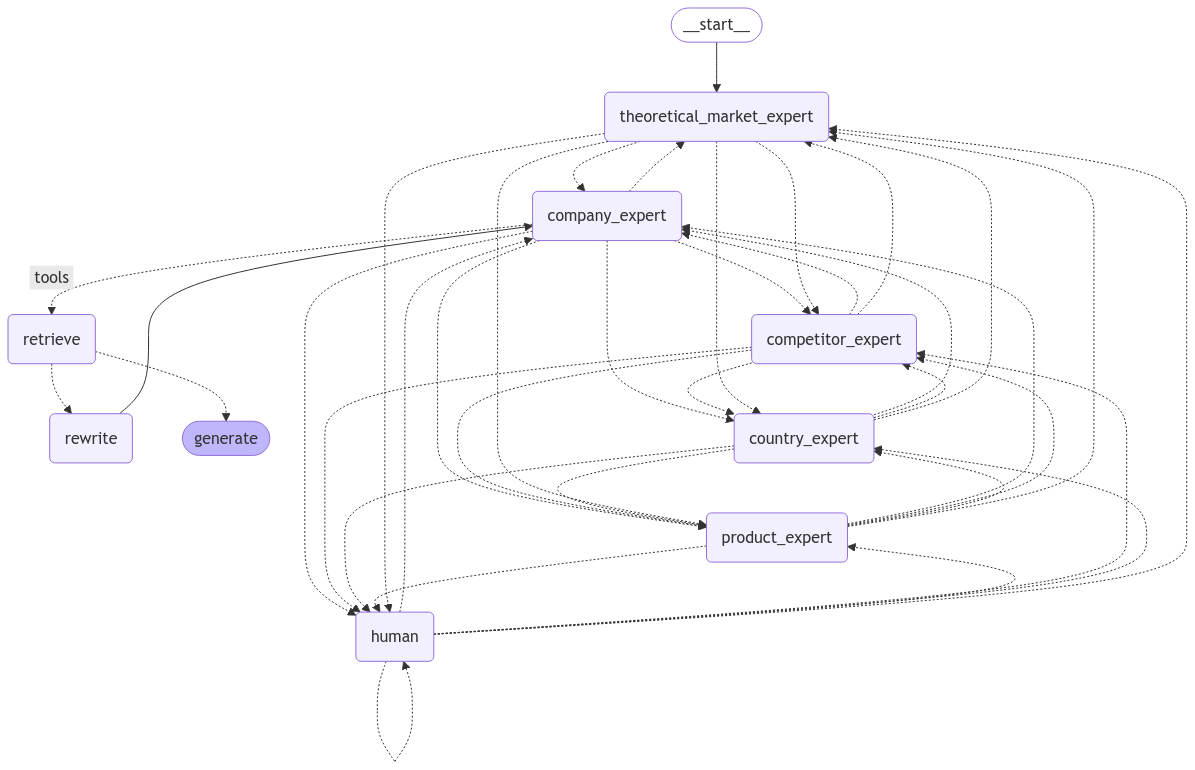
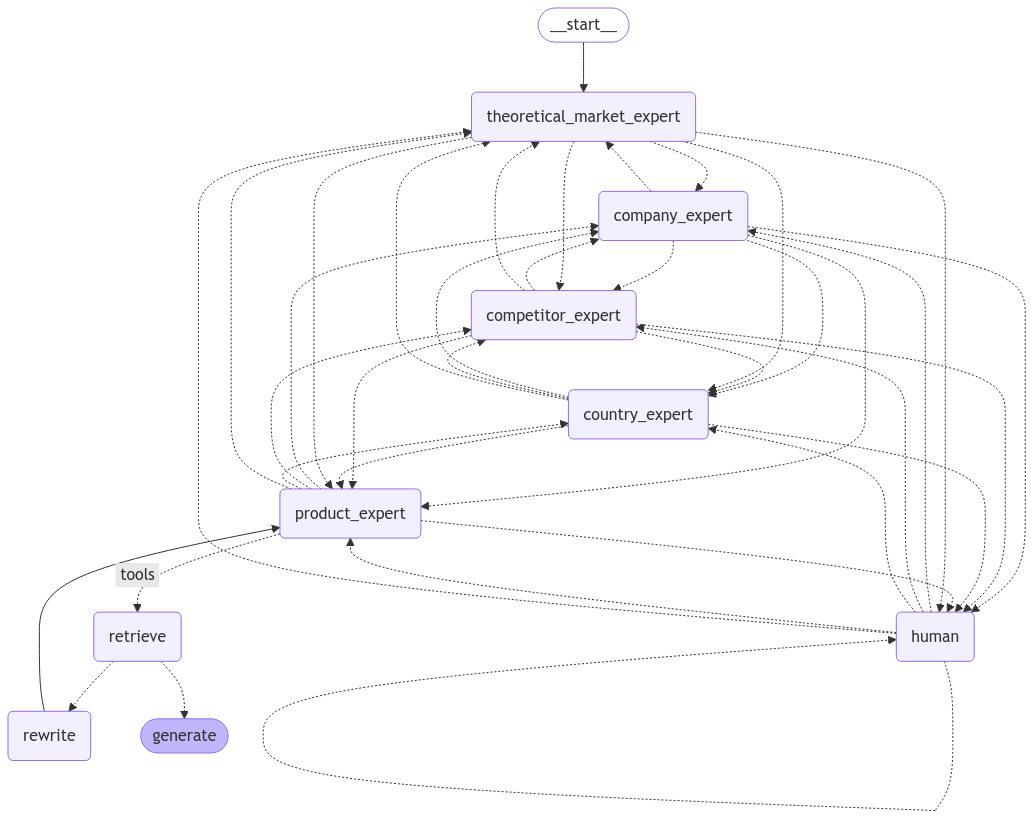
add product expert rag

diff --git a/markentry/workflow.py b/markentry/workflow.py
@@ -3,7 +3,7 @@ from langgraph.prebuilt import ToolNode
 from langchain_openai import ChatOpenAI
 from langgraph.checkpoint.memory import MemorySaver
 from markentry.state import AgentState
-from markentry.tools.company_data_retriever_tool import company_data_retriever_tool
+from markentry.tools.product_data_retriever_tool import product_data_retriever_tool
 
 
 from markentry.utils import rag_utils
@@ -25,9 +25,13 @@ builder = StateGraph(AgentState)
 llm = ChatOpenAI(model='gpt-4o-mini')
 builder.add_node('company_expert', company_expert_node)
 
+
+builder.add_node('competitor_expert', competitor_expert_node)
+builder.add_node('country_expert', country_expert_node)
+builder.add_node('product_expert', product_expert_node)
 # RAG
 # builder.add_node('agent', rag_utils.agent)  # agent
-retrieve = ToolNode([company_data_retriever_tool])
+retrieve = ToolNode([product_data_retriever_tool])
 builder.add_node('retrieve', retrieve)  # retrieval
 builder.add_node('rewrite', rag_utils.rewrite)  # Re-writing the question
 
@@ -37,7 +41,7 @@ builder.add_node(
 
 # Decide whether to retrieve
 builder.add_conditional_edges(
-	'company_expert',
+	'product_expert',
 	# Assess agent decision
 	tools_condition,
 	{
@@ -52,42 +56,7 @@ builder.add_conditional_edges(
 	# Assess agent decision
 	rag_utils.grade_documents,
 )
-builder.add_edge('rewrite', 'company_expert')
-
-
-builder.add_node('competitor_expert', competitor_expert_node)
-builder.add_node('country_expert', country_expert_node)
-builder.add_node('product_expert', product_expert_node)
-"""
-# RAG for product expert
-# builder.add_node('agent', rag_utils.agent)  # agent
-get_product_insights_tool = ToolNode([get_product_insights_tool])
-builder.add_node('get_product_insights_tool', get_product_insights_tool)  # retrieval
-builder.add_node('rewrite_for_product', rag_utils.rewrite)  # Re-writing the question
-
-builder.add_node(
-	'generate_for_product', rag_utils.generate
-)  # Generating a response after we know the documents are relevant
-
-# Decide whether to retrieve
-builder.add_conditional_edges(
-	'product_expert',
-	# Assess agent decision
-	tools_condition,
-	{
-		# Translate the condition outputs to nodes in our graph
-		'tools': 'get_product_insights_tool',
-	},
-)
-
-# Edges taken after the `action` node is called.
-builder.add_conditional_edges(
-	'get_product_insights_tool',
-	# Assess agent decision
-	rag_utils.grade_documents,
-)
-builder.add_edge('rewrite_for_product', 'product_expert')
-"""
+builder.add_edge('rewrite', 'product_expert')
 
 builder.add_node('theoretical_market_expert', market_expert_node)
 # This adds a node to collect human input, which will route

diff --git a/markentry/tools/product_data_retriever_tool.py b/markentry/tools/product_data_retriever_tool.py
@@ -7,7 +7,7 @@ import os
 
 current_dir = os.path.dirname(__file__)
 
-file_path = os.path.join(current_dir, '..', 'TestFile-ProductExpert.pdf')
+file_path = os.path.join(current_dir, '..', 'data/RAG_Data-ProductExpert.pdf')
 
 loader = PyPDFLoader(file_path)
 pages = loader.load_and_split()
